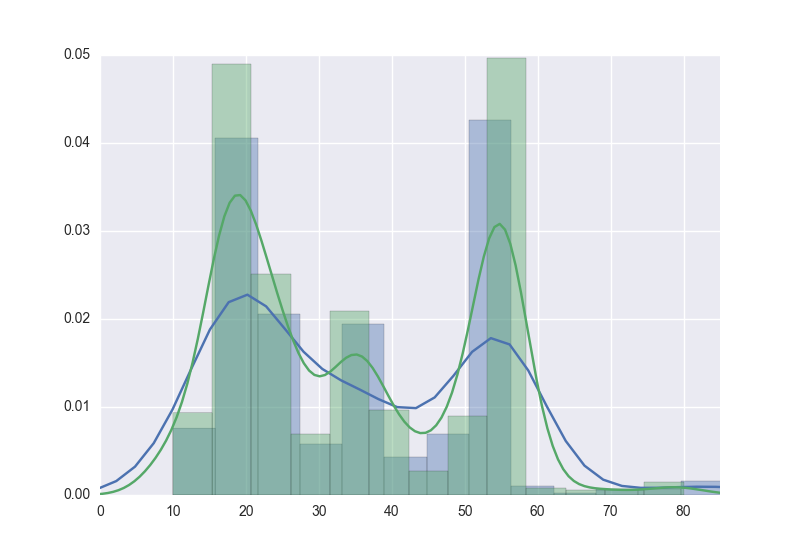
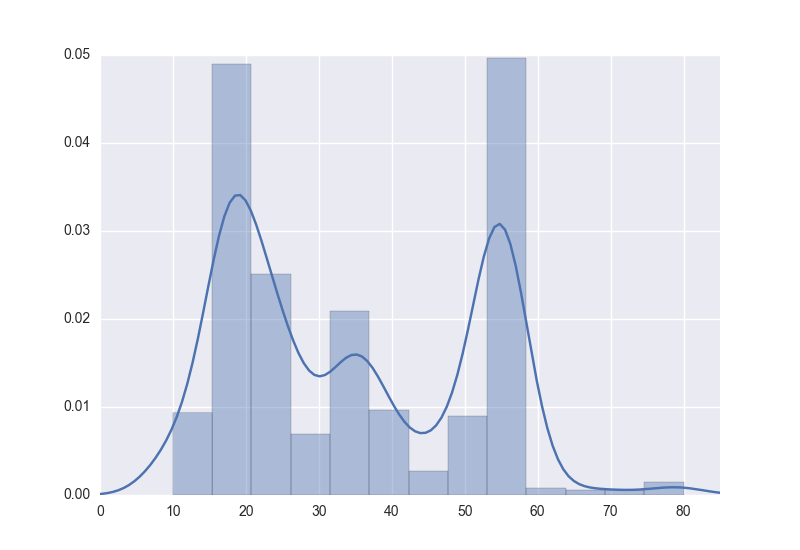
update to clear inbetween plots

Changed region(s): [[0.125, 0.0927, 0.9062, 0.9273]]

diff --git a/src/visualize_data.py b/src/visualize_data.py
@@ -29,6 +29,7 @@ def void_histogram(d, title, lim=None):
   fig = plot.get_figure()
 
   fig.savefig('../images/{}.png'.format(title))
+  plt.close()
 
 if __name__ == '__main__':
 
